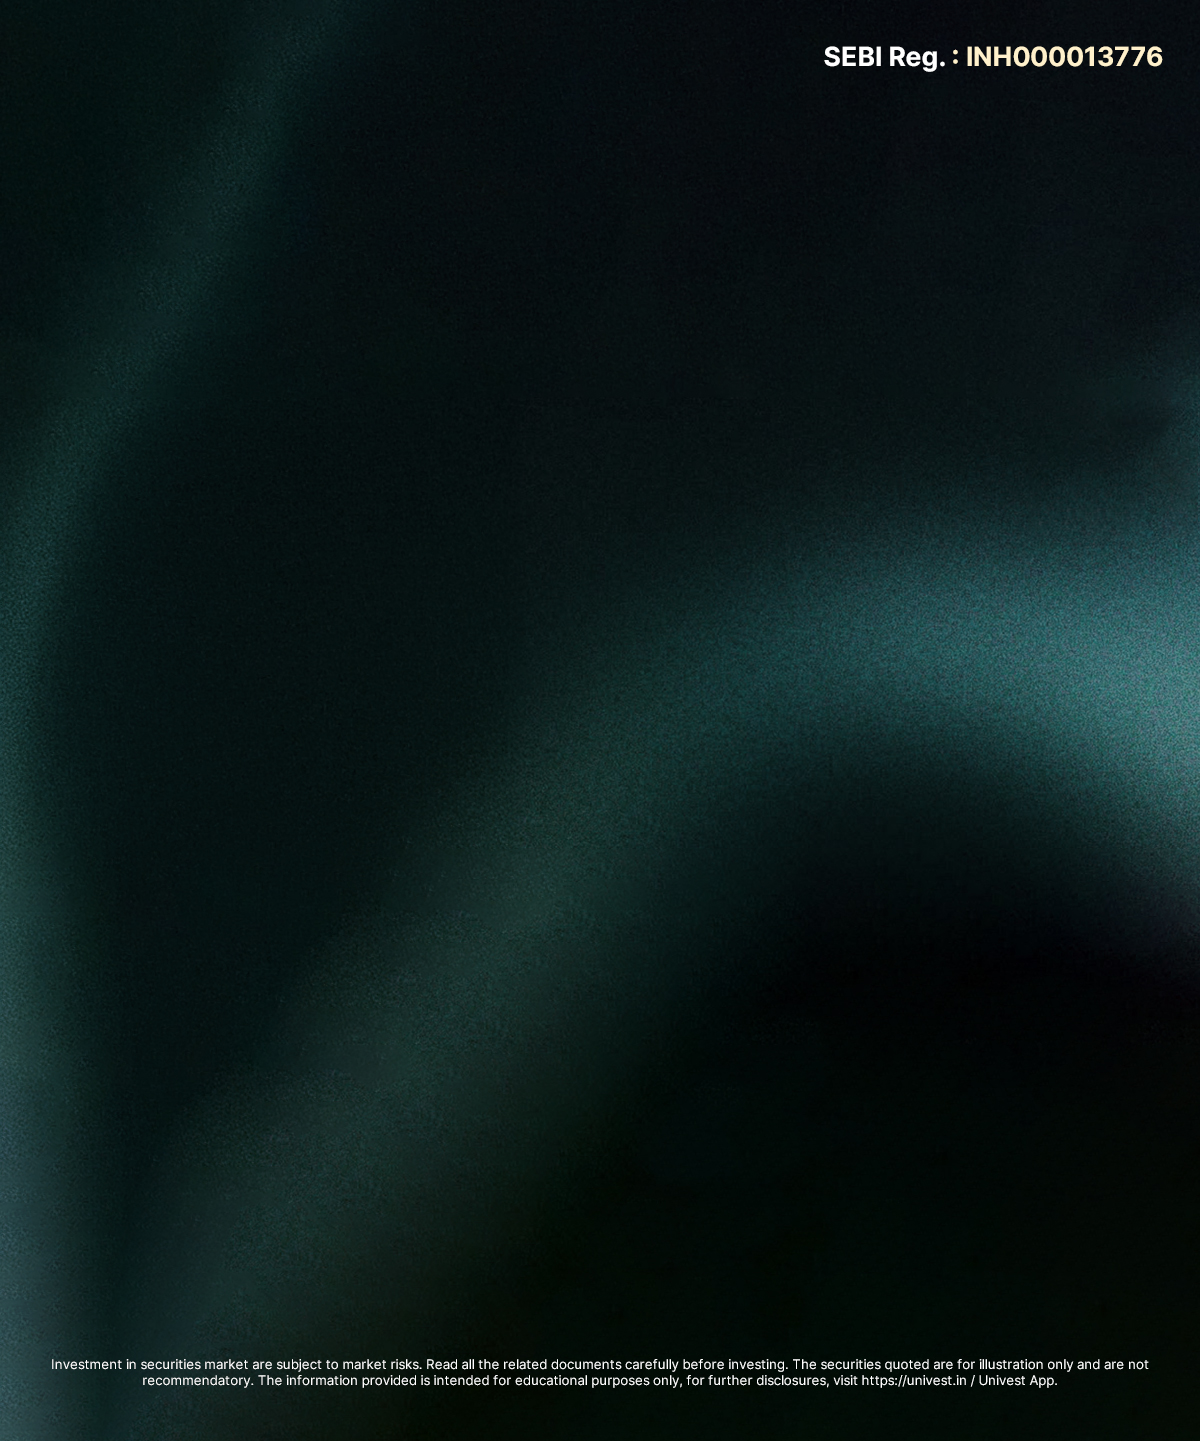
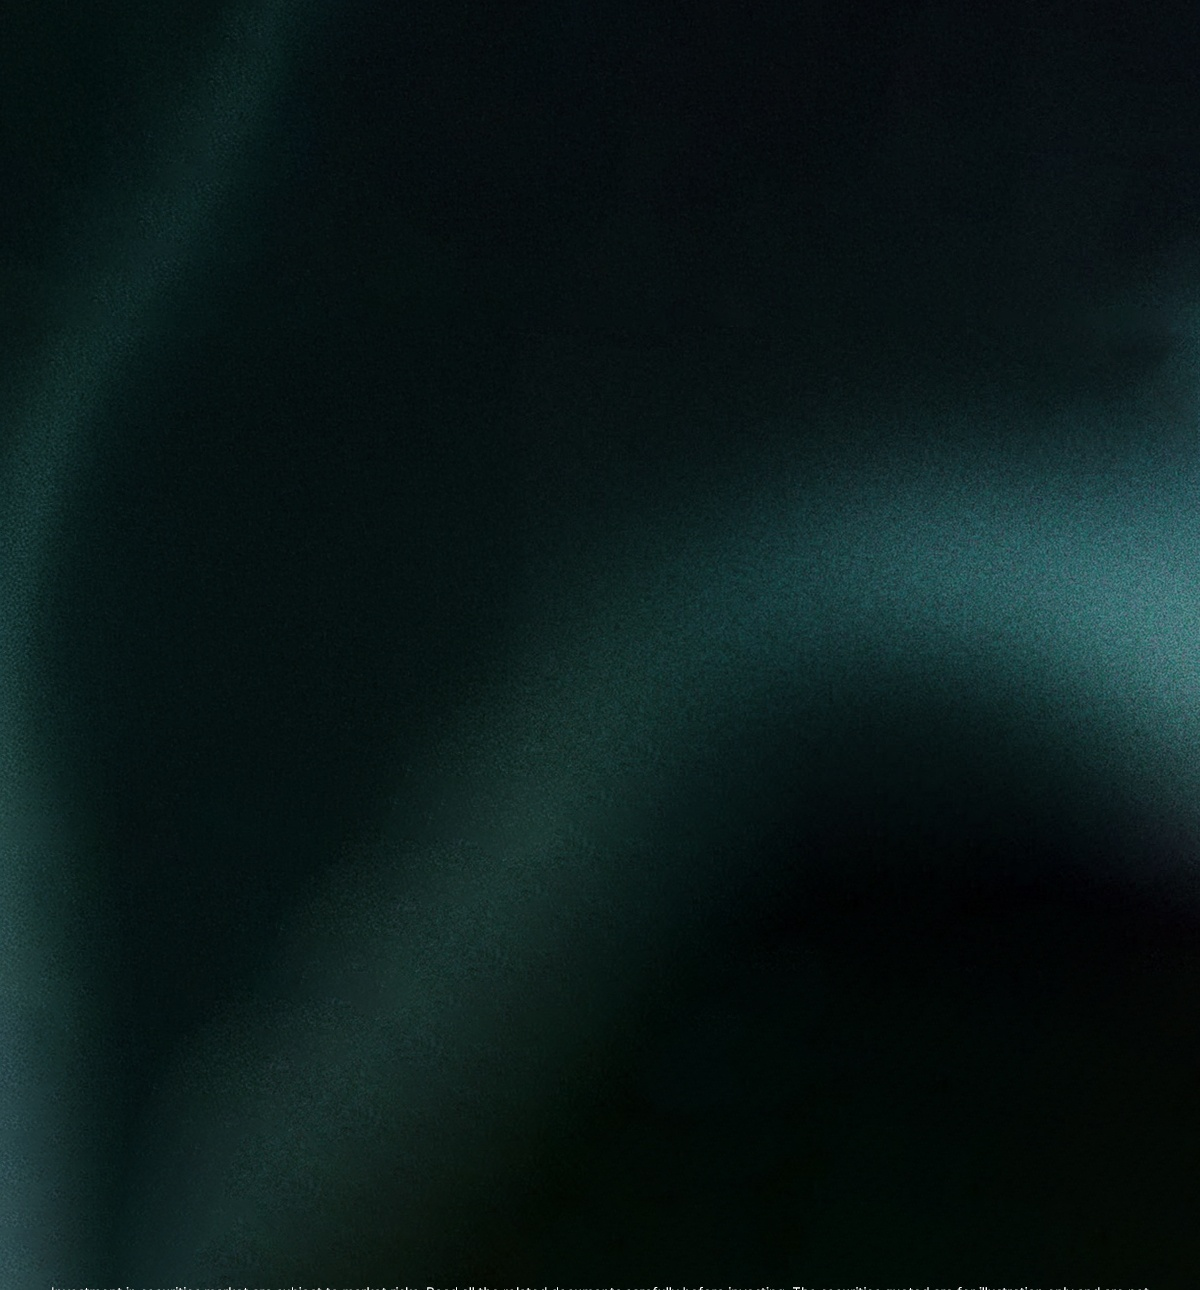
Fix: crop baked-in text from bg image, use Inter font for title

diff --git a/index.html b/index.html
@@ -51,28 +51,10 @@
     overflow: hidden;
   }
 
-  /* Dark overlays to hide baked-in SEBI (top) and disclaimer (bottom) from bg image */
-  .card::before {
-    content: '';
-    position: absolute; top: 0; left: 0; right: 0;
-    height: 6%;
-    background: linear-gradient(to bottom, #070a0e 40%, transparent 100%);
-    z-index: 1;
-    pointer-events: none;
-  }
-  .card::after {
-    content: '';
-    position: absolute; bottom: 0; left: 0; right: 0;
-    height: 6%;
-    background: linear-gradient(to top, #081210 40%, transparent 100%);
-    z-index: 1;
-    pointer-events: none;
-  }
-
-  /* Inner wrapper with padding — all content sits above the overlays */
+  /* Inner wrapper with padding */
   .card-inner {
     position: relative;
-    z-index: 2;
+    z-index: 1;
     padding: 24px 30px 18px;
   }
 
@@ -93,15 +75,15 @@
     white-space: nowrap;
   }
   .card-title .t-green {
-    font-family: 'Playfair Display', Georgia, serif;
+    font-family: 'Inter', 'Segoe UI', sans-serif;
     font-style: italic;
     font-weight: 800;
     color: #4aeabc;
   }
   .card-title .t-white {
-    font-family: 'Playfair Display', Georgia, serif;
+    font-family: 'Inter', 'Segoe UI', sans-serif;
     font-style: italic;
-    font-weight: 400;
+    font-weight: 300;
     color: #ffffffdd;
   }
 
